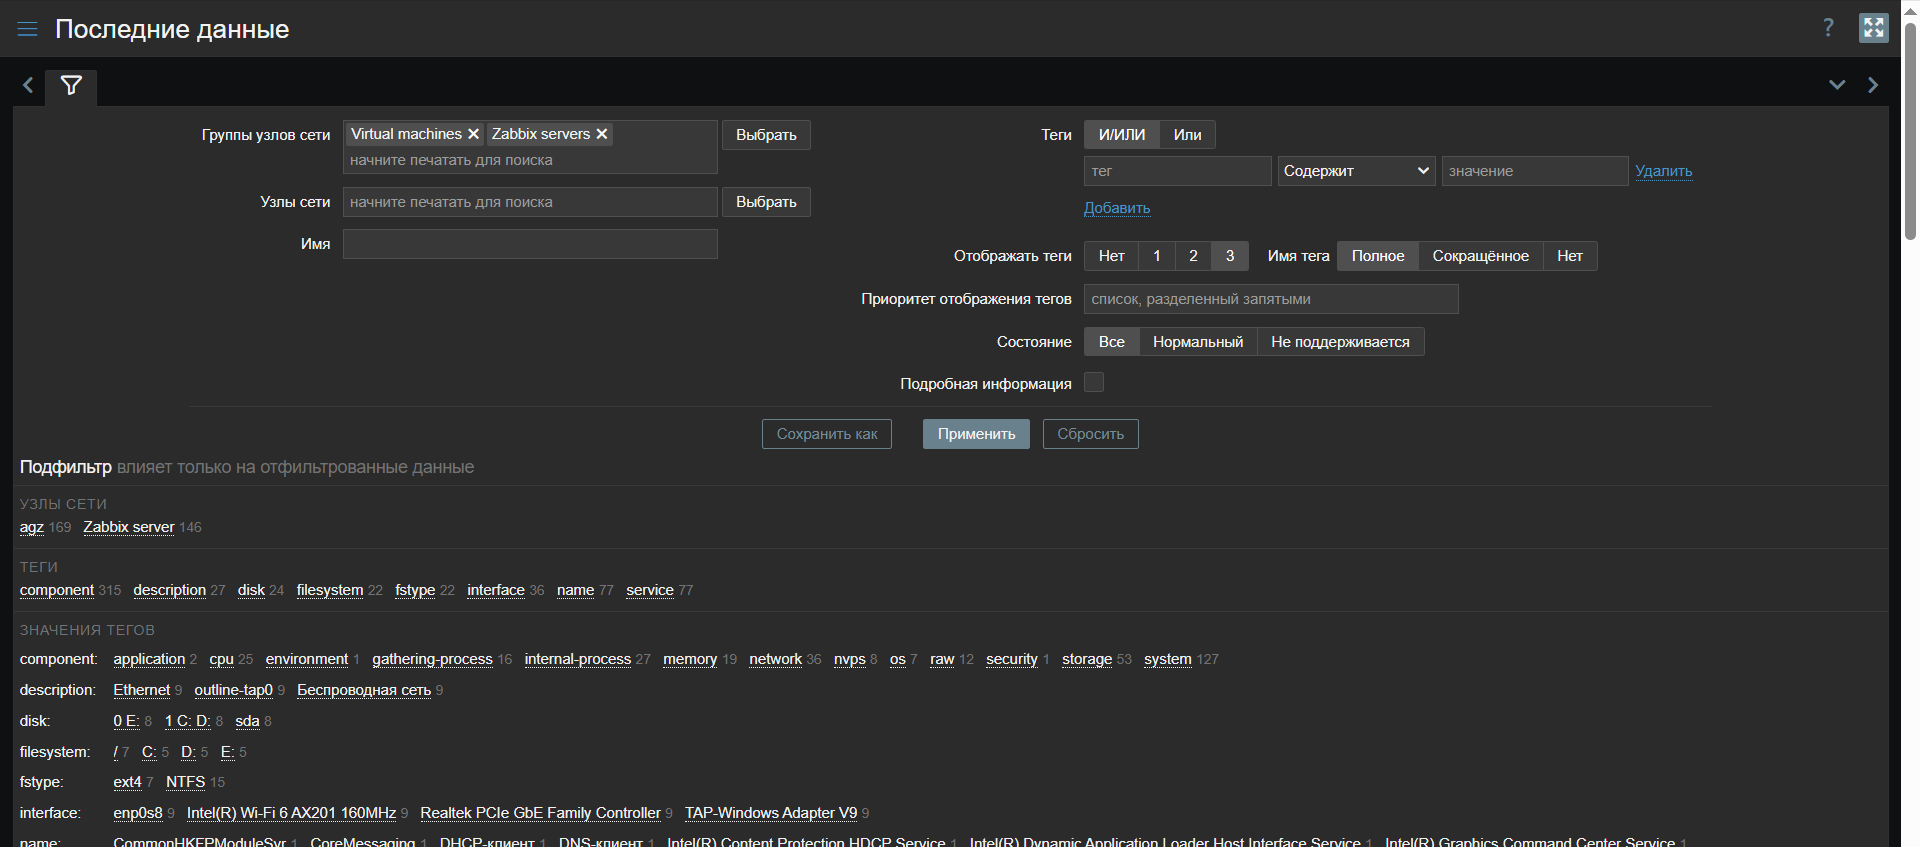
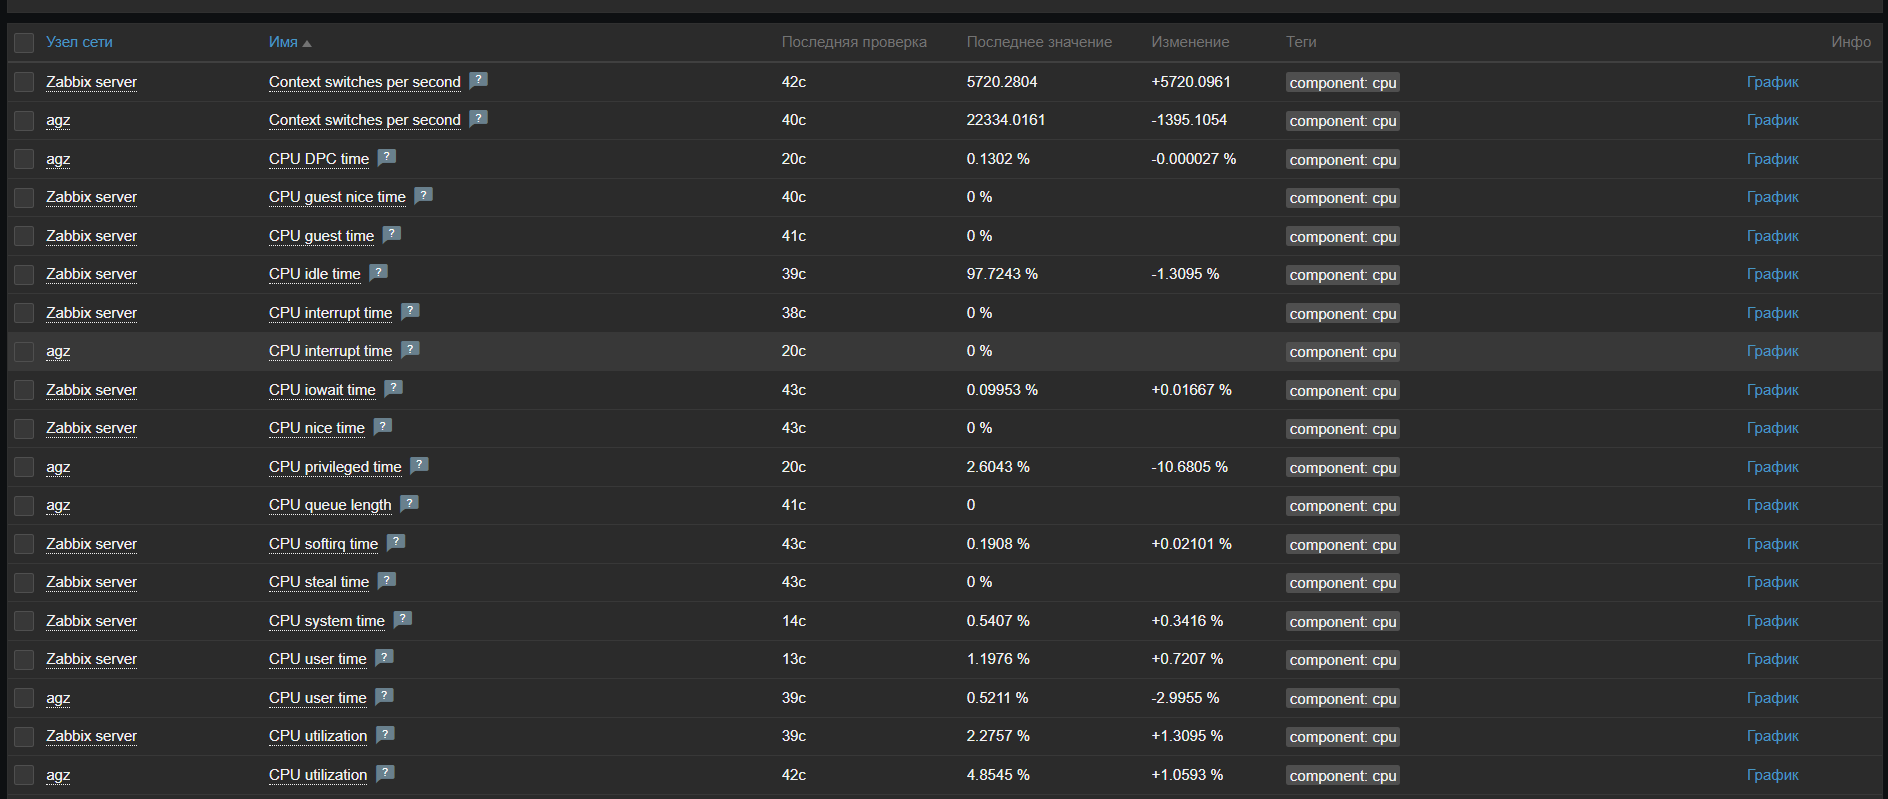
4

diff --git a/README.md b/README.md
@@ -80,8 +80,13 @@ agz@debian:~/Desktop/zabbix$ sudo cat /var/log/zabbix/zabbix_agentd.log
 3. Приложите в файл README.md скриншот раздела Monitoring > Latest data для обоих хостов, где видны поступающие от агентов данные.
 ![alt text](img/image-2.png)
 
+
 4. Приложите в файл README.md текст использованных команд в GitHub
-Установка и настройка агента производилась своместно с установкой сервера zabbix, что видно из 2 пункта 1го задания
+```bash
+apt install zabbix-agent
+systemctl zabbix-agent 
+systemctl zabbix-agent 
+```
 ---
 ## Задание 3 со звёздочкой*
 Установите Zabbix Agent на Windows (компьютер) и подключите его к серверу Zabbix.
